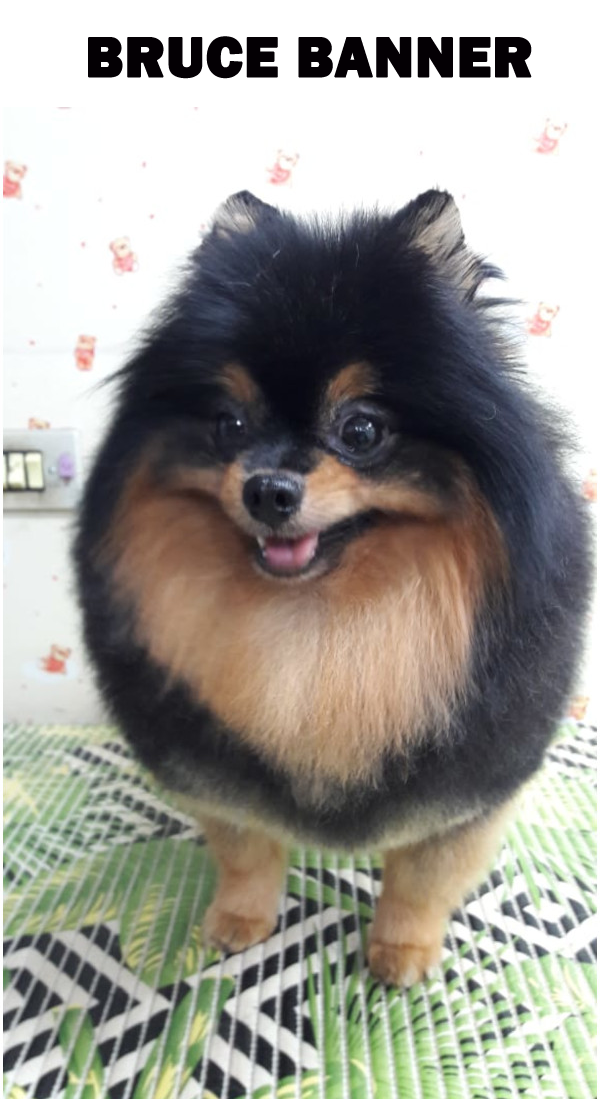
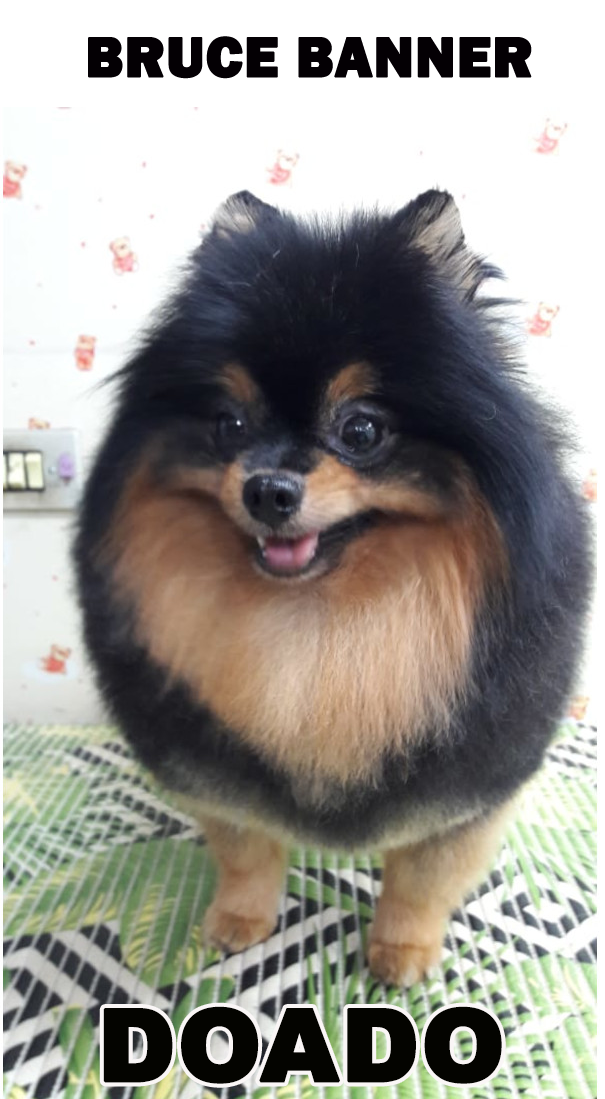
UP

Changed region(s): [[0.1488, 0.8972, 0.8331, 0.99]]

diff --git a/pais.html b/pais.html
@@ -73,12 +73,12 @@
 <body>
     <main>
         <h1>Pais</h1>
-        <a href="pais/BRUCE.png"><img src="pais/BRUCE.png" alt="bruce2" title="Bruce Banner" ></a>
-        <a href="pais/THOMAS.png"><img src="pais/THOMAS.png" alt="bruce2" title="Thomaz" ></a>
+        
+        <a href="pais/THOMAS2.png"><img src="pais/THOMAS2.png" alt="bruce2" title="Thomaz" ></a>
  
           <a href="pais/PETER.png"><img src="pais/PETER.png" alt="peter2" title="Peter Parker"></a>
-          <h2>Bruce Banner: Peso: 3,400 kg Cernelha 21 cm. Anão</h2>
-          <h2>Thomaz: Peso: 2,950 kg. Cernelha 23 cm. Anão </h2>
+          
+          <h2>Thomaz: Peso: 2,950 kg. Cernelha 23 cm. Anão. Emprestado </h2>
           <h2>Peter Parker: Peso: 5,100 kg. Cernelha 27 cm. Pequeno </h2>
      
           
@@ -87,41 +87,58 @@
     <section>
             <h1>Mães</h1>
            
-            <a href="pais/MARY.png"><img src="pais/MARY.png" alt="Mary" title="Mary Jane"></a>
+            
             
             <a href="pais/PEGGY.png"><img src="pais/PEGGY.png" alt="Peggy Carter" title="Peggy Carter"></a>
             <a href="pais/KATE MAE.png"><img src="pais/KATE MAE.png" alt="Kate"></a>
-            <a href="pais/Diana Prince.png"><img src="pais/Diana Prince.png" alt="Diana"></a>
+            
             <a href="pais/SININHO 2 PNG.png"><img src="pais/SININHO 2 PNG.png" alt="Sininho"></a>
 
             
-            <h2>Mary Jane: Peso: 2,930 kg. Cernelha 24 cm. Anã </h2>
+            
             
             <h2>Peggy Carter: Peso: 4,175 kg. Cernelha 24 cm. Pequena </h2>
             <h2>Kate Bishop: Peso: 3,135 kg. Cernelha 24 cm. Pequena </h2>
-            <h2>Diana Prince: Peso: 3,510 kg. Cernelha 24 cm. Pequena </h2>
+           
             <h2>Sininho: Peso 2,350 Kg. Cernelha 21 cm. Anã </h2>
 
-            <H1>E nossos outros filhos.</H1>
-            <a href="pais/CRISTAL.png"><img src="pais/CRISTAL.png" alt="Cristal" title="Cristal"></a>
-            
-            <a href="pais/NATASHA.png"><img src="pais/NATASHA.png" alt= "Natasha Romanoff" title="Natasha Romanoff" ></a>
+            <H1>E nossa filha castrada.</H1>
             
             
-            <a href="pais/STEVE.png"><img src="pais/STEVE.png" alt="Steve Rogers" title="Steeve Rogers"></a>
-            <a href="pais/PAULO.png"><img src="pais/PAULO.png" alt="Paulo" title="Paulo"></a>
+            
+            
+            
+            
             <a href="pais/POLLY.png"><img src="pais/POLLY.png" alt="Pollyana" title="Pollyana"></a>
             
             
-            <h2>Cristal: Peso: 3,920 kg. Cernelha 24 cm. Pequena. Doada </h2>
+            
+            
           
-            <h2>Natasha Romanoff: Peso: 4,200 kg. Cernelha 19 cm. Anã .Doada</h2>
-            <h2>Steve Rogers: Peso kg 4,150 Cernelha 26 cm. Pequeno</h2>
             
-            <h2>Paulo: Peso: 9,400 kg Cernelha 23cm</h2>
+            
+            
+            
             <h2>Pollyana: Peso: 4,410 kg Cernelha 9 cm</h2>
-            
 
+
+            <H1>DOADOS, MAS SEMPRE SERÃO NOSSOS, PELO CORAÇÃO</H1>
+            <a href="pais/BRUCE.png"><img src="pais/BRUCE.png" alt="bruce2" title="Bruce Banner" ></a>
+            <a href="pais/CRISTAL.png"><img src="pais/CRISTAL.png" alt="Cristal" title="Cristal"></a>
+            <a href="pais/NATASHA.png"><img src="pais/NATASHA.png" alt= "Natasha Romanoff" title="Natasha Romanoff" ></a>
+            <a href="pais/STEVE.png"><img src="pais/STEVE.png" alt="Steve Rogers" title="Steeve Rogers"></a>
+            <a href="pais/MARY.png"><img src="pais/MARY.png" alt="Mary" title="Mary Jane"></a>
+            <a href="pais/Diana Prince.png"><img src="pais/Diana Prince.png" alt="Diana"></a>
+            
+            <a href="pais/PAULO.png"><img src="pais/PAULO.png" alt="Paulo" title="Paulo"></a>
+            
+            <h2>Bruce Banner: Peso: 3,400 kg Cernelha 21 cm. Anão. Doado</h2>
+            <h2>Cristal: Peso: 3,920 kg. Cernelha 24 cm. Pequena. Doada </h2>
+            <h2>Natasha Romanoff: Peso: 4,200 kg. Cernelha 19 cm. Anã .Doada</h2>
+            <h2>Steve Rogers: Peso kg 4,150 Cernelha 26 cm. Pequeno. Doado.</h2>
+            <h2>Mary Jane: Peso: 2,930 kg. Cernelha 24 cm. Anã. Doada </h2>
+            <h2>Diana Prince: Peso: 3,510 kg. Cernelha 24 cm. Pequena. Doada</h2>
+            <h2>Paulo: Peso: 9,400 kg Cernelha 23cm. Doado.</h2>
             
     </section>
     <footer>

diff --git a/parceiros.html b/parceiros.html
@@ -208,7 +208,7 @@ a:hover {
         <a href="https://www.instagram.com/petshopchiquinho/" target="_blank"><img src="parceiros/pet shoop.png" alt=""></a>
         <a href="https://www.racoesrenata.com.br/cocaia" target="_blank"><img src="parceiros/rr.jpg" alt=""></a>
         
-        <a href="https://www.facebook.com/Mimos-da-Paula-467195460464196" target="_blank"><img src="parceiros/teste.jpg" alt=""></a><br>
+      
        
         <a href="https://api.whatsapp.com/send?phone=5511941290728"target="_blank"><img src="parceiros/ronaldo.jpg" alt="Drogaria"></a>
 

diff --git a/index.html b/index.html
@@ -78,7 +78,7 @@
                   <a href="cinobras.html"><img src="imagens logo/cinibrasCANIL3.png" alt="cinobrás"></a>
                   <a href="clientes.html"><img src="imagens logo/clientes.png" alt="Cachorros vendidos"></a>
                   <a href="mimos.html"><img src="imagens logo/mimos dos clientes.png" alt="Mimos"></a>
-                  <a href="CONCURSOGERAL.HTML"><img src="imagens logo/concursos.png" alt="Mimos"></a>
+                 
 
                   
           </section>
